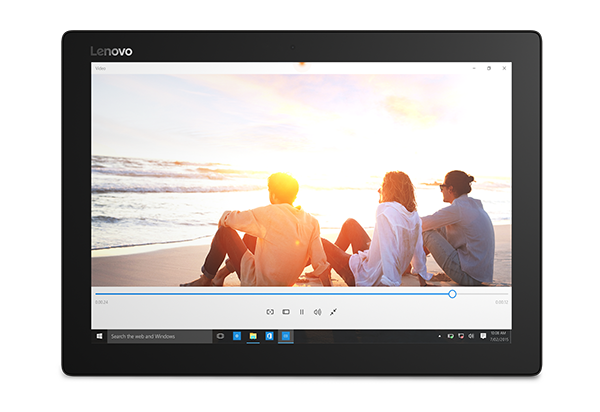
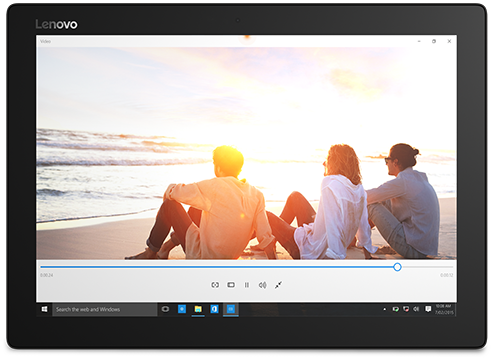
corrección en imagen

diff --git a/output/fichas_premium/skeleton/miix_700_premium.html b/output/fichas_premium/skeleton/miix_700_premium.html
@@ -571,7 +571,7 @@
 
 				<!--& MODULE TEXTO IMAGEN MASK (SHOW SM, MD, LG) &-->
 
-				<div class="mett__module-PI-mask mett__layout-row mett__layout-wrap mett__justify-start mett__align-center mett__flex-lg-100 mett__flex-md-100 mett__flex-sm-100 mett__flex-xs-100 mett__flex-gt-100 mett__flex-gt-hide mett__flex-xs-hide mett__flex-sm-show mett__flex-md-show mett__flex-lg-show" style="background: url('img/MIIX_700/IMG_02.png');background-size: cover;background-position: 21em -3em">
+				<div class="mett__module-PI-mask mett__layout-row mett__layout-wrap mett__justify-start mett__align-center mett__flex-lg-100 mett__flex-md-100 mett__flex-sm-100 mett__flex-xs-100 mett__flex-gt-100 mett__flex-gt-hide mett__flex-xs-hide mett__flex-sm-show mett__flex-md-show mett__flex-lg-show" style="background: url('img/MIIX_700/IMG_02.png');background-size: cover;background-position: 21em -8em">
 
 					<div class="mett__layout-row mett__flex-lg-55 mett__flex-md-50 mett__flex-sm-50 mett__flex-xs-100 mett__flex-gt-100 mett__order-lg-1 mett__order-md-1 mett__order-sm-1 mett__order-xs-1 mett__order-gt-2 mett__cont-information">
 						
